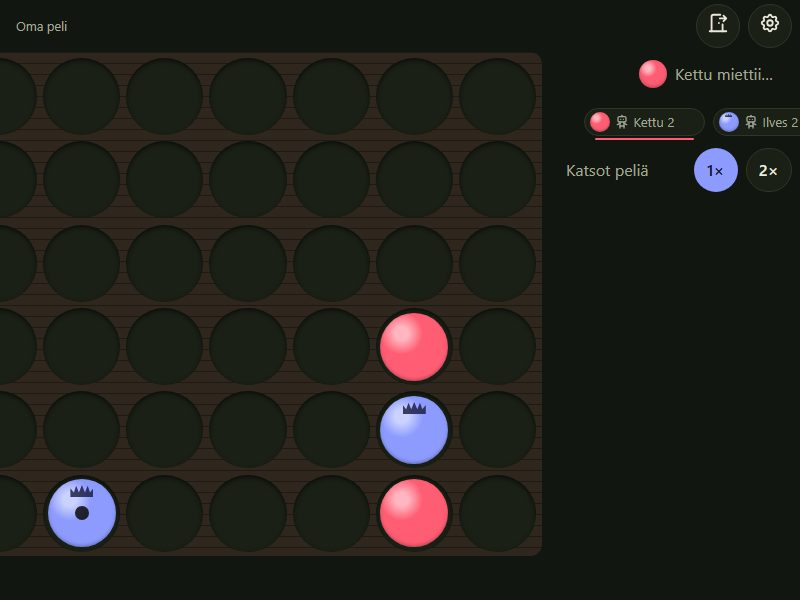
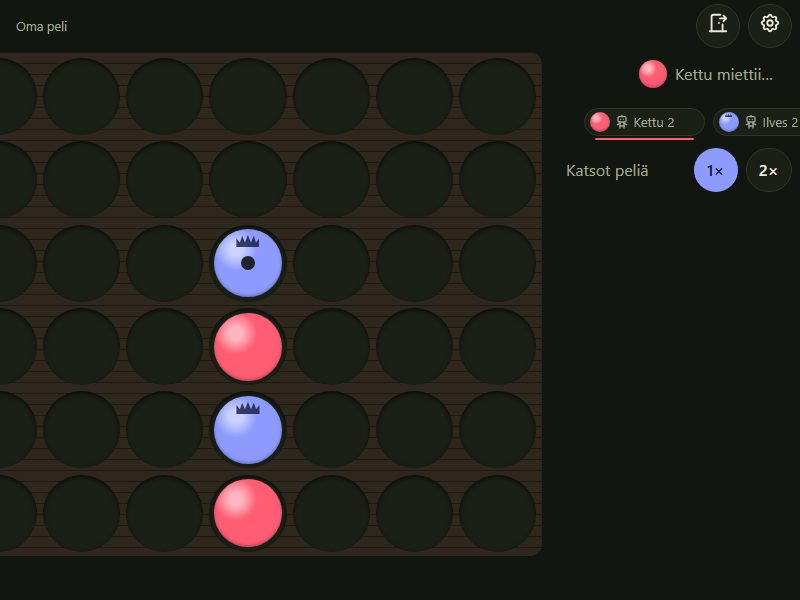
feat: update Neljän suora on the games page

Changed region(s): [[0.25, 0.36, 0.375, 0.93], [0.4688, 0.51, 0.5625, 0.93], [0.0625, 0.78, 0.1562, 0.93]]

diff --git a/index.html b/index.html
@@ -21,9 +21,9 @@
   </header>
 
   <main class="grid">
-    <a class="card soon" data-game="neljan-suora" href="https://github.com/Jukkakot/neljan-suora">
+    <a class="card" data-game="neljan-suora" href="https://jukkakot.github.io/neljan-suora/">
       <img src="images/neljan-suora.jpg" alt="Neljän suora -pelin näkymä" width="800" height="600" loading="lazy">
-      <span class="info"><span class="name">Neljän suora <span class="badge">Tulossa</span></span><span class="year">2026</span></span>
+      <span class="info"><span class="name">Neljän suora</span><span class="year">2026</span></span>
     </a>
     <a class="card" href="https://jukkakot.github.io/palikka/">
       <img src="images/palikka.jpg" alt="Palikka-pelin lauta" width="800" height="600" loading="lazy">
